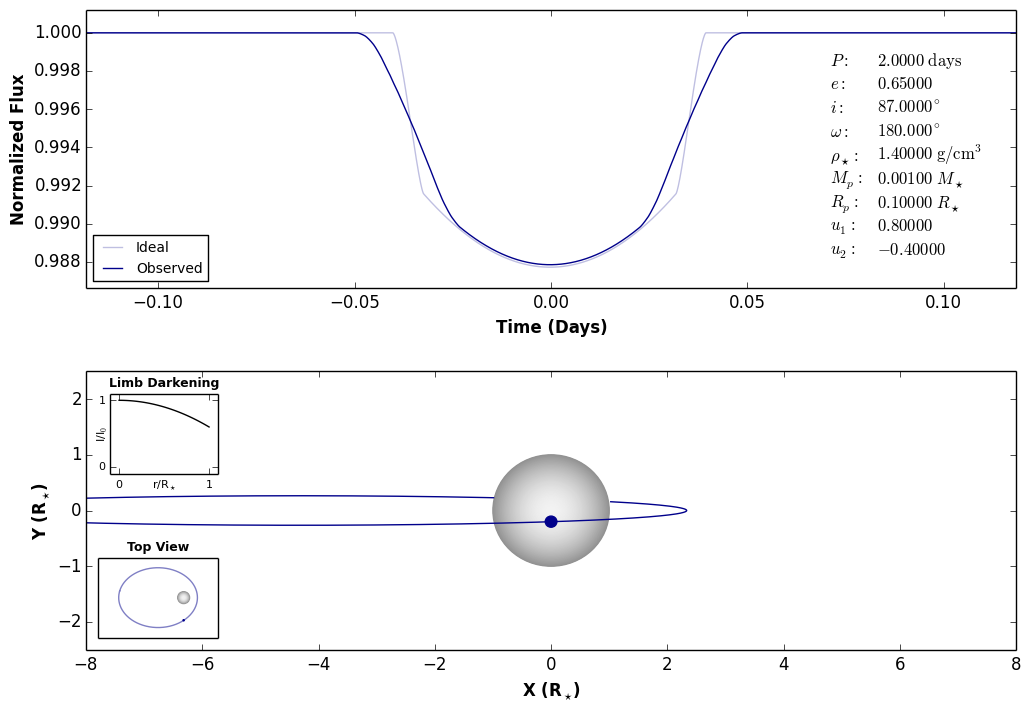
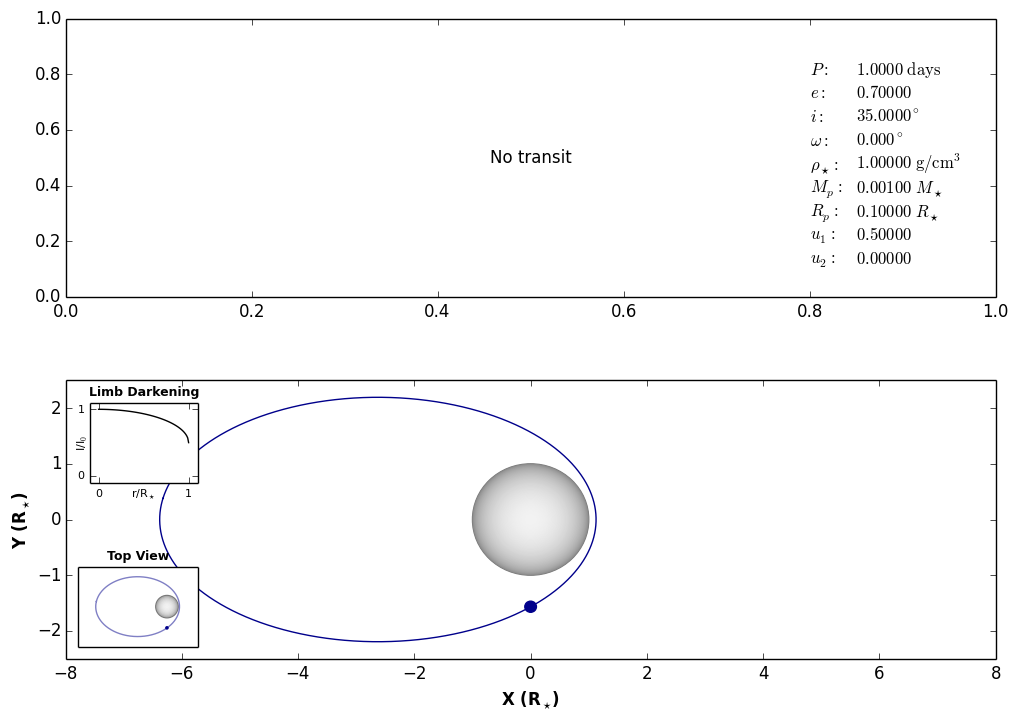
several updates

diff --git a/pysyzygy/main.py b/pysyzygy/main.py
@@ -65,6 +65,14 @@ def xy(t, t0, rhos, MpMs, per, bcirc, esw, ecw, mask_star = True):
   sini = np.sqrt(1. - (bcirc/aRs)**2 )
   e = np.sqrt( esw**2 + ecw**2 )
   w = np.arctan2(esw, ecw)
+  
+  # DEBUG: The following adjustment seems to be necessary... 
+  # Figure out why!
+  if w <= np.pi:
+    w = (np.pi - w)
+  else:
+    w = (3*np.pi - w)
+  
   fi = 3.*np.pi/2 - w                                                                 # True anomaly at transit center (approximate)
   t_peri = t0 + per*np.sqrt(1 - e**2)/(2*np.pi)*(e*np.sin(fi)/(1+e*np.cos(fi)) - 
     2./np.sqrt(1-e**2)*np.arctan2(np.sqrt(1-e**2)*np.tan(fi/2.), 1+e))                # Time of pericenter
@@ -93,32 +101,106 @@ def xy(t, t0, rhos, MpMs, per, bcirc, esw, ecw, mask_star = True):
 
 def plot(**kwargs):
   '''
-  The main plotting routine. Plots the lightcurve and the sky-projected orbit.
+  The main plotting routine. Plots the lightcurve and the sky-projected orbit, and
+  saves the image to disk.
   
+  :Keyword Arguments:
+  
+  * **e** (*float*) - 
+    The eccentricity of the orbit, in the range ``(0., 1.]``. Default ``0.``
+
+  * **i** (*float*) -
+    The inclination of the orbit in degrees, in the range ``(0., 90.)``. 
+    Default ``90.``
+
+  * **MpMs** (*float*) -
+    The ratio of the planet mass to the stellar mass. Default ``0.001``
+
+  * **per** (*float*) -
+    The period of the planet in days. Default ``2.``
+
+  * **rhos** (*float*) -
+    The density of the star in g/cm^3. Default ``1.4``
+  
+  * **RpRs** (*float*) -
+    The ratio of the planet radius to the stellar radius, between ``[0., 0.5]``. 
+    Default ``0.1``
+  
+  * **u1** (*float*) -
+    The linear stellar limb darkening coefficient, in the range ``(0., 1.)``. 
+    Default ``0.8``
+
+  * **u2** (*float*) -
+    The quadratic LD coefficient. ``u1 + u2`` must be in the range ``(0., 1.)``. 
+    Default ``-0.4``
+
+  * **w** (*float*) -
+    The argument of periapsis in degrees. Default ``270.``
+
+  * **exptime** (*float*) -
+    The exposure time in days. Default ``0.020434`` (Kepler long cadence)
+
+  * **exp_pts** (*int*) -
+    The number of calls to the transit module in the exposure window. Default ``10``
+
+  * **lightcurve** (*str*) -
+    Options are ``"ideal"`` (plots only the ideal lightcurve), ``"observed"`` (plots
+    only the observed lightcurve), or ``"both"``. Default ``"both"``
+
+  * **ldplot** (*bool*) -
+    Plot the limb darkening profile inset? Default ``True``
+
+  * **plot_name** (*str*) -
+    The name of the file to save the plot to. Default ``transit.png``
+
+  * **plot_title** (*str*) -
+    The plot title. Default ``""``
+
+  * **show_params** (*bool*) -
+    Show the planet parameters on the top plot? Default ``True``
+  
+  * **xypts** (*int*) -
+    The number of points to use when plotting the orbit. Default ``1000``
+    
   '''
   
   # Keywords
   per = kwargs.get('per', 2.)
+  assert (0 < per), 'Invalid value for the period.'
   i = kwargs.get('i', 90.)*np.pi/180.
+  assert (0 <= i < 2*np.pi), 'Invalid value for the inclination.'
   rhos = kwargs.get('rhos', 1.4)
+  assert (0 < rhos), 'Invalid value for the stellar density.'
   MpMs = kwargs.get('MpMs', 0.001)
+  assert (0 <= MpMs), 'Invalid value for the planet mass.'
   e = kwargs.get('e', 0.0)
+  assert (0 <= e < 1.0), 'Invalid value for the eccentricity.'
   w = kwargs.get('w', 270.)*np.pi/180.
+  assert (0 <= w < 2*np.pi), 'Invalid value for omega.'
   u1 = kwargs.get('u1', 0.8)
   u2 = kwargs.get('u2', -0.4)
   assert (0. <= u1 <= 1.) and (0. <= u1 + u2 <= 1.), \
-         'Invalid range for limb darkening coefficients.'
+         'Invalid values for the limb darkening coefficients.'
   RpRs = kwargs.get('RpRs', 0.1)
+  assert (0 < RpRs < 0.5), 'Invalid value for the planet radius.'
   exptime = kwargs.get('exptime', 1765.5/86400)
+  assert (0 < exptime), 'Invalid value for the exposure time.'
   exp_pts = kwargs.get('exp_pts', 10)
+  assert (1 <= exp_pts), 'Invalid value for the number of exposure points.'
   plot_name = kwargs.get('plot_name', 'transit')
   plot_title = kwargs.get('plot_title', '')
   show_params = kwargs.get('show_params', True)
+  xypts = kwargs.get('xypts', 1000)
+  assert (0 < xypts), 'Invalid value for xypts.'
+  lightcurve = kwargs.get('lightcurve', 'both')
+  assert (lightcurve == 'both') or (lightcurve == 'ideal') or \
+         (lightcurve == 'observed'), 'Invalid option for lightcurve.'
+  ldplot = kwargs.get('ldplot', True)
   
   # Derived stuff
   aRs = ((G*rhos*(1. + MpMs)*(per*DAYSEC)**2)/(3*np.pi))**(1./3)
   if aRs*(1-e) <= 1.:
-    raise Exception('Star-crossing orbit!')
+    raise Exception('Error: star-crossing orbit!')
   bcirc = aRs*np.cos(i)
   esw = e*np.sin(w)
   ecw = e*np.cos(w)
@@ -139,16 +221,21 @@ def plot(**kwargs):
   if not np.isnan(window):
     try:
       # The ideal lightcurve
-      flux = np.ones_like(t, dtype=float)
-      err = transit.transit(t,flux,bcirc,rhos,MpMs,esw,ecw,per,u1,u2,RpRs,
-                                   exptime,tN,1,ntrans,len(t))
-      ax1.plot(t,flux, '-', color='DarkBlue', alpha = 0.25, label='Ideal')
+      if (lightcurve == 'both') or (lightcurve == 'ideal'):
+        flux = np.ones_like(t, dtype=float)
+        err = transit.transit(t,flux,bcirc,rhos,MpMs,esw,ecw,per,u1,u2,RpRs,
+                              exptime,tN,1,ntrans,len(t))
+        if lightcurve == 'both':
+          ax1.plot(t,flux, '-', color='DarkBlue', alpha = 0.25, label='Ideal')
+        elif lightcurve == 'ideal':
+          ax1.plot(t,flux, '-', color='DarkBlue', alpha = 1.0, label='Ideal')
   
       # The blurred lightcurve due to the finite exposure time
-      flux = np.ones_like(t, dtype=float)
-      err = transit.transit(t,flux,bcirc,rhos,MpMs,esw,ecw,per,u1,u2,RpRs,
-                                   exptime,tN,exp_pts,ntrans,len(t))
-      ax1.plot(t,flux, '-', color='DarkBlue', label='Observed')
+      if (lightcurve == 'both') or (lightcurve == 'observed'):
+        flux = np.ones_like(t, dtype=float)
+        err = transit.transit(t,flux,bcirc,rhos,MpMs,esw,ecw,per,u1,u2,RpRs,
+                              exptime,tN,exp_pts,ntrans,len(t))
+        ax1.plot(t,flux, '-', color='DarkBlue', label='Observed')
     
       rng = np.max(flux) - np.min(flux)
       ax1.set_ylim(np.min(flux) - 0.1*rng, np.max(flux) + 0.1*rng)
@@ -164,7 +251,7 @@ def plot(**kwargs):
     ax1.text(0.5,0.5,'No transit',ha='center',va='center')
 
   # Sky-projected motion
-  t = np.linspace(-per/2,per/2,1000)
+  t = np.linspace(-per/2,per/2,xypts)
   x, y = xy(t, tN[0], rhos, MpMs, per, bcirc, esw, ecw)
   
   # The star
@@ -176,14 +263,15 @@ def plot(**kwargs):
     ax2.add_artist(star)
 
   # Inset: Limb darkening
-  inset1 = pl.axes([0.145, 0.32, .09, .1])
-  inset1.plot(r,Ir,'k-')
-  pl.setp(inset1, xlim=(-0.1,1.1), ylim=(-0.1,1.1), xticks=[0,1], yticks=[0,1])
-  for tick in inset1.xaxis.get_major_ticks() + inset1.yaxis.get_major_ticks():
-    tick.label.set_fontsize(8)
-  inset1.set_ylabel(r'I/I$_0$', fontsize=8, labelpad=-8)
-  inset1.set_xlabel(r'r/R$_\star$', fontsize=8, labelpad=-8)
-  inset1.set_title('Limb Darkening', fontweight='bold', fontsize=9)
+  if ldplot:
+    inset1 = pl.axes([0.145, 0.32, .09, .1])
+    inset1.plot(r,Ir,'k-')
+    pl.setp(inset1, xlim=(-0.1,1.1), ylim=(-0.1,1.1), xticks=[0,1], yticks=[0,1])
+    for tick in inset1.xaxis.get_major_ticks() + inset1.yaxis.get_major_ticks():
+      tick.label.set_fontsize(8)
+    inset1.set_ylabel(r'I/I$_0$', fontsize=8, labelpad=-8)
+    inset1.set_xlabel(r'r/R$_\star$', fontsize=8, labelpad=-8)
+    inset1.set_title('Limb Darkening', fontweight='bold', fontsize=9)
   
   # Inset: Top view of orbit
   inset2 = pl.axes([0.135, 0.115, .1, .1])
@@ -264,3 +352,9 @@ def plot(**kwargs):
 if __name__ == '__main__':
   # Produce a sample plot
   plot(e = 0.65, i = 87., w = 180.)
+  
+  '''
+  DEBUG: The following two plots make it clear that omega was off by 180 degrees!
+  plot(e = 0.7, per = 1., w = 290., xypts=10000, rhos=1., u1 = 0.5, u2 = 0., lightcurve = 'ideal', i = 35)
+  pysyzygy.plot(e = 0.7, per = 1., w = 0., xypts=10000, rhos=1., u1 = 0.5, u2 = 0., lightcurve = 'ideal', i = 65)
+  '''

diff --git a/README.rst b/README.rst
@@ -36,48 +36,61 @@ Calling pysyzygy...
 
 where ``kwargs`` can be any of:
 
-* **e** (*float*) -
-  The eccentricity of the orbit, in the range ``(0., 1.]``. Default ``0.``
+  * **e** (*float*) - 
+    The eccentricity of the orbit, in the range ``(0., 1.]``. Default ``0.``
 
-* **i** (*float*) -
-  The inclination of the orbit in degrees, in the range ``(0., 90.)``. Default ``90.``
+  * **i** (*float*) -
+    The inclination of the orbit in degrees, in the range ``(0., 90.)``. 
+    Default ``90.``
 
-* **MpMs** (*float*) -
-  The ratio of the planet mass to the stellar mass. Default ``0.001``
+  * **MpMs** (*float*) -
+    The ratio of the planet mass to the stellar mass. Default ``0.001``
 
-* **per** (*float*) -
-  The period of the planet in days. Default ``2.``
+  * **per** (*float*) -
+    The period of the planet in days. Default ``2.``
 
-* **rhos** (*float*) -
-  The density of the star in g/cm^3. Default ``1.4``
+  * **rhos** (*float*) -
+    The density of the star in g/cm^3. Default ``1.4``
   
-* **RpRs** (*float*) -
-  The ratio of the planet radius to the stellar radius, between ``[0., 0.5]``. Default ``0.1``
+  * **RpRs** (*float*) -
+    The ratio of the planet radius to the stellar radius, between ``[0., 0.5]``. 
+    Default ``0.1``
   
-* **u1** (*float*) -
-  The linear stellar limb darkening coefficient, in the range ``(0., 1.)``. Default ``0.8``
+  * **u1** (*float*) -
+    The linear stellar limb darkening coefficient, in the range ``(0., 1.)``. 
+    Default ``0.8``
 
-* **u2** (*float*) -
-  The quadratic LD coefficient. ``u1 + u2`` must be in the range ``(0., 1.)``. Default ``-0.4``
+  * **u2** (*float*) -
+    The quadratic LD coefficient. ``u1 + u2`` must be in the range ``(0., 1.)``. 
+    Default ``-0.4``
 
-* **w** (*float*) -
-  The argument of periapsis in degrees. Default ``270.``
+  * **w** (*float*) -
+    The argument of periapsis in degrees. Default ``270.``
 
+  * **exptime** (*float*) -
+    The exposure time in days. Default ``0.020434`` (Kepler long cadence)
 
-* **exptime** (*float*) -
-  The exposure time in days. Default ``0.020434`` (Kepler long cadence)
+  * **exp_pts** (*int*) -
+    The number of calls to the transit module in the exposure window. Default ``10``
 
-* **exp_pts** (*int*) -
-  The number of calls to the transit module in the exposure window. Default ``10``
+  * **lightcurve** (*str*) -
+    Options are ``"ideal"`` (plots only the ideal lightcurve), ``"observed"`` (plots
+    only the observed lightcurve), or ``"both"``. Default ``"both"``
 
-* **plot_name** (*str*) -
-  The name of the file to save the plot to. Default ``transit.png``
+  * **ldplot** (*bool*) -
+    Plot the limb darkening profile inset? Default ``True``
 
-* **plot_title** (*str*) -
-  The plot title. Default ``""``
+  * **plot_name** (*str*) -
+    The name of the file to save the plot to. Default ``transit.png``
 
-* **show_params** (*bool*) -
-  Show the planet parameters on the top plot? Default ``True``
+  * **plot_title** (*str*) -
+    The plot title. Default ``""``
+
+  * **show_params** (*bool*) -
+    Show the planet parameters on the top plot? Default ``True``
+  
+  * **xypts** (*int*) -
+    The number of points to use when plotting the orbit. Default ``1000``
 
 Notes
 =====
